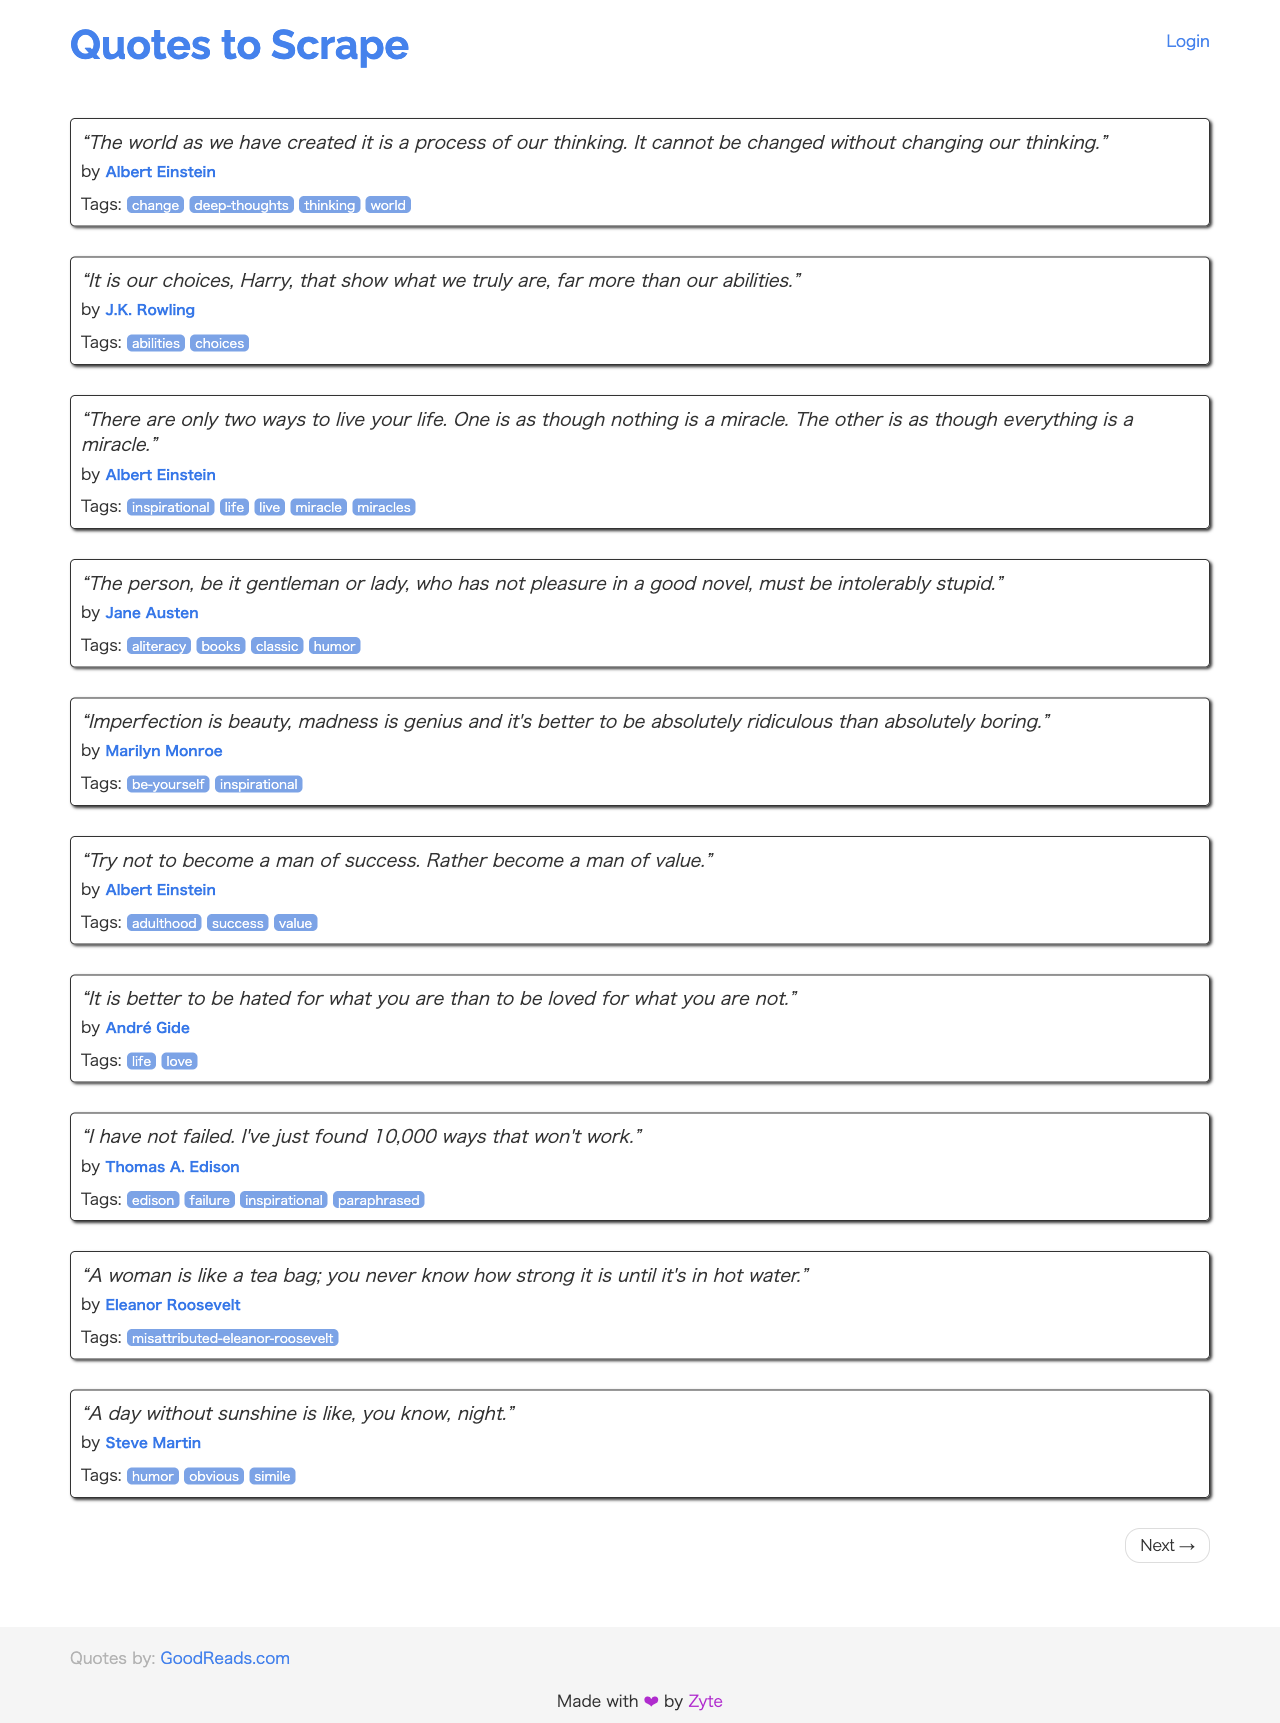
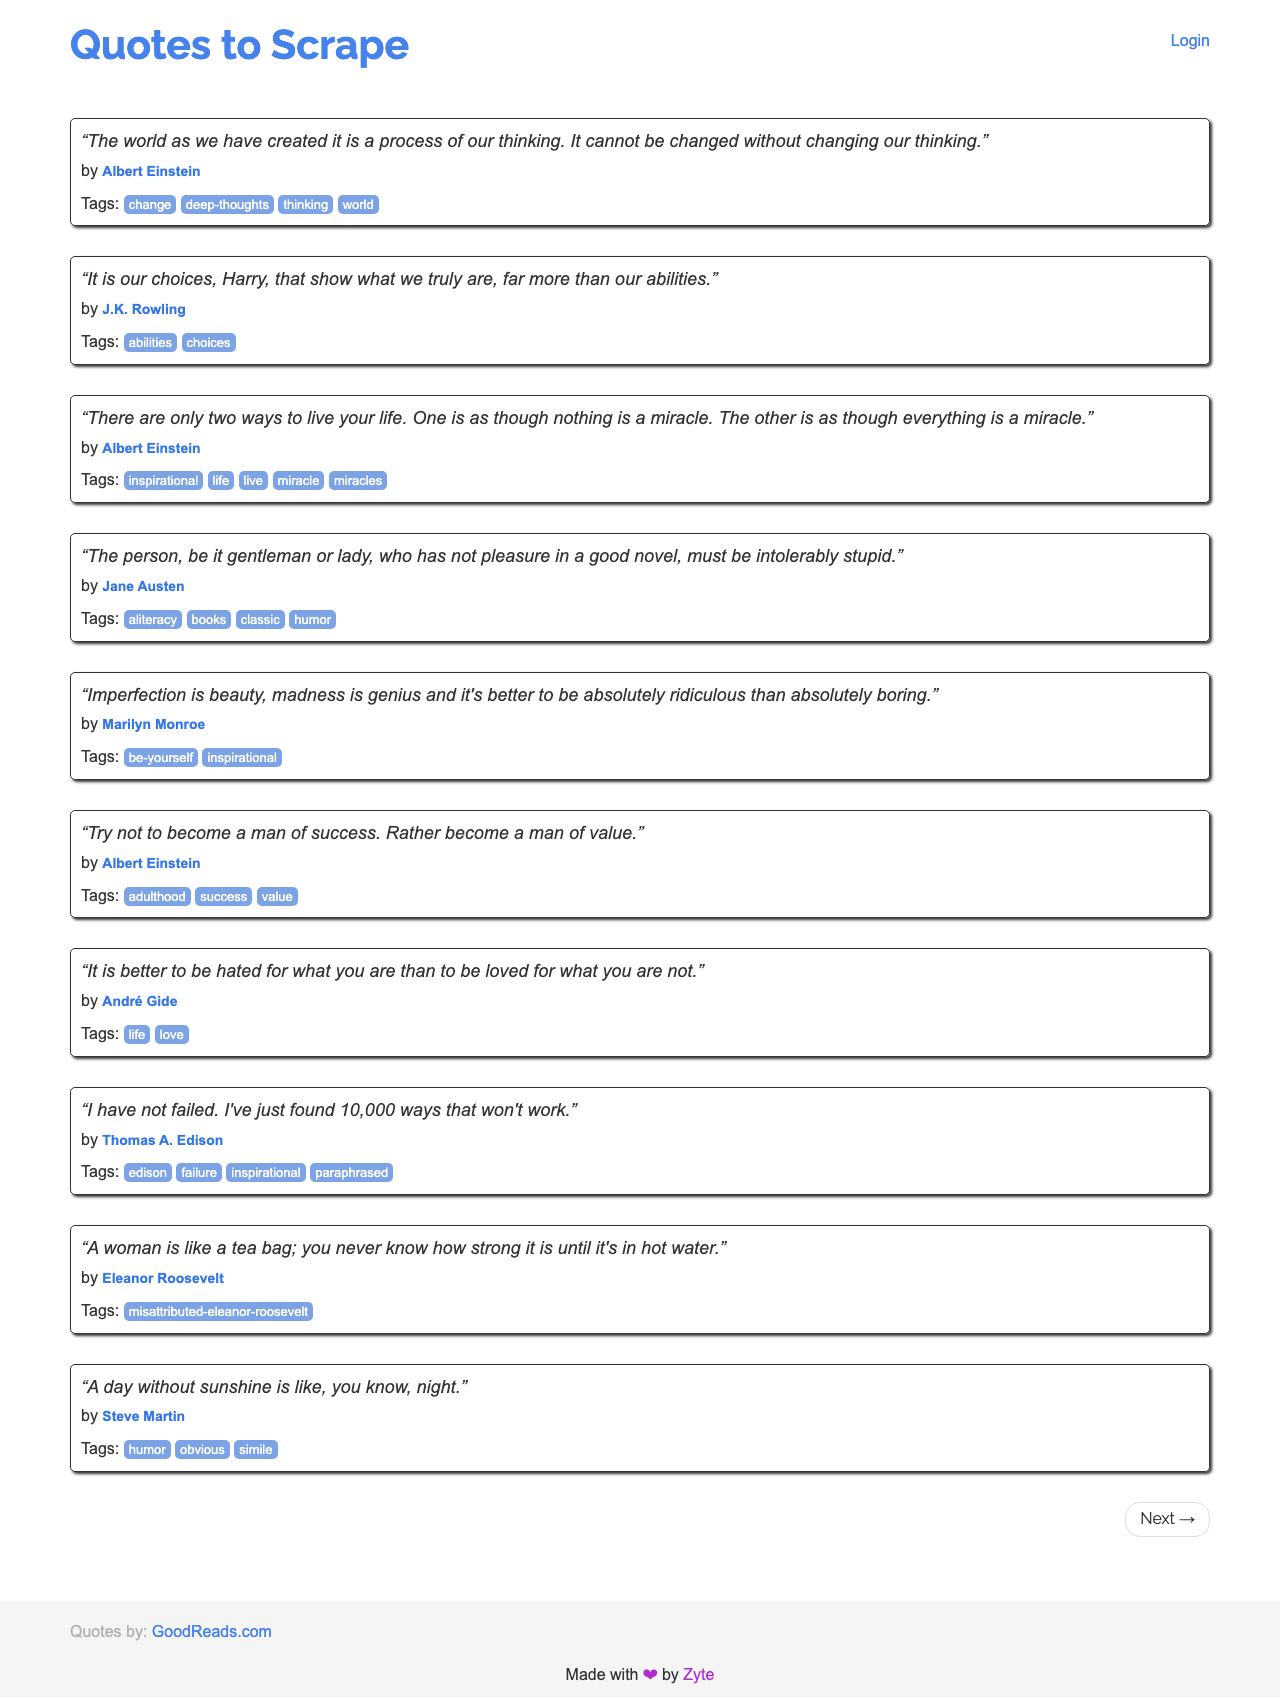
ブラウザ非表示（ヘッドレス）で実行するよう変更

diff --git a/scrape_quotes.py b/scrape_quotes.py
@@ -21,7 +21,7 @@ import time
 import urllib.request
 from datetime import date
 from urllib.error import URLError
-from urllib.parse import urljoin, urlparse
+from urllib.parse import urljoin
 from urllib.robotparser import RobotFileParser
 
 from playwright.sync_api import Error as PlaywrightError
@@ -105,8 +105,8 @@ def scrape_all(parser: RobotFileParser) -> list[dict[str, str]]:
     screenshot_path = f"quotes_{date.today().strftime('%Y%m%d')}.png"
 
     with sync_playwright() as playwright:
-        # headless=False で画面にブラウザを表示して実行する
-        browser = playwright.chromium.launch(headless=False)
+        # headless=True でブラウザを画面に表示せずに実行する
+        browser = playwright.chromium.launch(headless=True)
         context = browser.new_context(user_agent=USER_AGENT)
         page = context.new_page()
         page.set_default_navigation_timeout(NAV_TIMEOUT)
